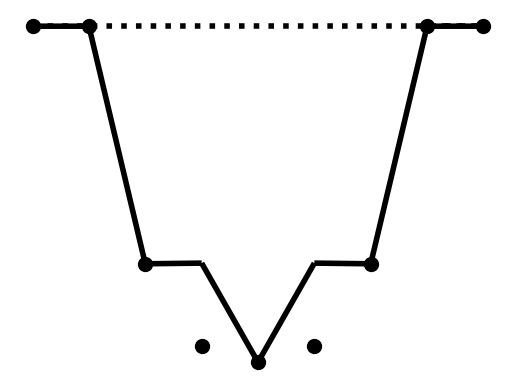
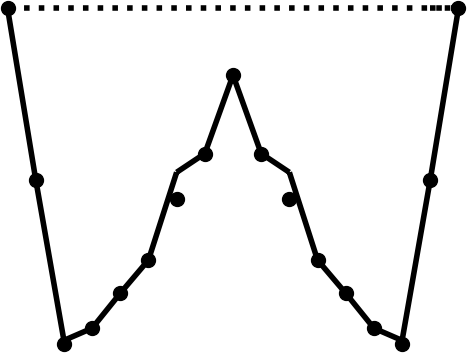
the V-cycle visualization Fig 8.3 is better with one fewer level

diff --git a/paper/tikz/imagesvcycle.tex b/paper/tikz/imagesvcycle.tex
@@ -4,11 +4,9 @@
     \pgfmathsetmacro{\YSTEP}{3.7}
     \pgfmathsetmacro{\YLABEL}{-0.4}
     \pgfmathsetmacro{\NUDGE}{0.5}
-    \node (start3) [] at (0,3*\YSTEP) {\includegraphics[height=\HEIGHT cm]{fixfigs/vcycle/start3.png}};
-    \node (start3label) [below of = start3, yshift=\YLABEL cm] {$w^3 \ge \underline{\gamma}^3$};
-    \node (down3) [] at (1.0*\XSTEP,3*\YSTEP) {\includegraphics[height=\HEIGHT cm]{fixfigs/vcycle/down3.png}};
-    \node (down3label) [below of = down3, yshift=\YLABEL cm] {$y^3 \ge \underline{\phi}^3$};
-    \node (down2) [] at (1.2*\XSTEP,2*\YSTEP) {\includegraphics[height=\HEIGHT cm]{fixfigs/vcycle/down2.png}};
+    \node (start2) [] at (0,2*\YSTEP) {\includegraphics[height=\HEIGHT cm]{fixfigs/vcycle/start2.png}};
+    \node (start2label) [below of = start2, yshift=\YLABEL cm] {$w^2 \ge \underline{\gamma}^2$};
+    \node (down2) [] at (1.0*\XSTEP,2*\YSTEP) {\includegraphics[height=\HEIGHT cm]{fixfigs/vcycle/down2.png}};
     \node (down2label) [below of = down2, yshift=\YLABEL cm] {$y^2 \ge \underline{\phi}^2$};
     \node (down1) [] at (1.4*\XSTEP,1*\YSTEP) {\includegraphics[height=\HEIGHT cm]{fixfigs/vcycle/down1.png}};
     \node (down1label) [below of = down1, yshift=\YLABEL cm] {$y^1 \ge \underline{\phi}^1$};
@@ -16,20 +14,16 @@
     \node (up0label) [below of = up0, yshift=\YLABEL cm] {$z^0 \ge \underline{\chi}^0$};
     \node (up1) [] at (2.4*\XSTEP,1*\YSTEP) {\includegraphics[height=\HEIGHT cm]{fixfigs/vcycle/up1.png}};
     \node (up1label) [below of = up1, yshift=\YLABEL cm] {$z^1 \ge \underline{\chi}^1$};
-    \node (up2) [] at (2.6*\XSTEP,2*\YSTEP) {\includegraphics[height=\HEIGHT cm]{fixfigs/vcycle/up2.png}};
+    \node (up2) [] at (2.8*\XSTEP,2*\YSTEP) {\includegraphics[height=\HEIGHT cm]{fixfigs/vcycle/up2.png}};
     \node (up2label) [below of = up2, yshift=\YLABEL cm] {$z^2 \ge \underline{\chi}^2$};
-    \node (up3) [] at (2.8*\XSTEP,3*\YSTEP) {\includegraphics[height=\HEIGHT cm]{fixfigs/vcycle/up3.png}};
-    \node (up3label) [below of = up3, yshift=\YLABEL cm] {$z^3 \ge \underline{\chi}^3$};
-    \node (next3) [] at (3.8*\XSTEP,3*\YSTEP) {\includegraphics[height=\HEIGHT cm]{fixfigs/vcycle/next3.png}};
-    \node (next3label) [below of = next3, yshift=\YLABEL cm] {$\tilde{w}^3 \ge \underline{\gamma}^3$};
+    \node (next2) [] at (3.8*\XSTEP,2*\YSTEP) {\includegraphics[height=\HEIGHT cm]{fixfigs/vcycle/next2.png}};
+    \node (next2label) [below of = next2, yshift=\YLABEL cm] {$\tilde{w}^2 \ge \underline{\gamma}^2$};
     \graph [edges = {very thick}] {
-        (start3) -> (down3)
-                 -!- [] (down3label) -> (down2)
+        (start2) -> (down2)
                  -!- [] (down2label) -> (down1)
                  -!- [] (down1label) -> (up0)
                  -> (up1label) -!- (up1)
                  -> (up2label) -!- (up2)
-                 -> (up3label) -!- (up3)
-                 -> (next3)
+                 -> (next2)
     };
 \end{tikzpicture}

diff --git a/paper/fascd.tex b/paper/fascd.tex
@@ -873,14 +873,16 @@ Set $\Omega=(-3,3)$, $\psi(x) = -0.2|x|$, $\mathcal{K} = \{v \ge \psi\} \subset 
 \end{figure}
 
 % figures in the following visualization were generated using branch elbueler/simplefigs
-% of git@bitbucket.org:pefarrell/fascd.git, and the following commands:
+% of git@bitbucket.org:pefarrell/fascd.git, and the following commands (including imagemagick):
 %   cd examples/
-%   python3 plap1d.py -figures -fascd_max_it 2 -fascd_cycle_type multiplicative -mcoarse 2
+%   python3 plap1d.py -fascd_cycle_type multiplicative -mcoarse 4 -levs 3 -figures
+%   [save the images into mcd-extended/paper/fixfigs/vcycle/]
+%   for X in start2 down2 down1 up0 up1 up2 next2; do mogrify -trim $X.png $X.png; done
 \begin{figure}[ht]
 \begin{center}
 \input{tikz/imagesvcycle.tex}
 \end{center}
-\caption{Visualization of one FAScd V-cycle iteration for Example \ref{ex:results:plap}, with $p=1.5$, $J=3$, and a coarsest mesh of $m_0=3$ vertices.  Solutions (i.e.~$w^j$, $y^j$, $z^j$) are lines while obstacles ($\underline{\gamma}^j$, $\underline{\phi}^j$, $\underline{\chi}^j$) are strong dots.  The zero function is shown (dotted), but vertical scale varies.}
+\caption{Visualization of one FAScd V-cycle iteration for Example \ref{ex:results:plap}, with $p=1.5$, $J=3$, and a coarsest mesh of $m_0=5$ vertices.  Solutions (i.e.~$w^j$, $y^j$, $z^j$) are lines, obstacles ($\underline{\gamma}^j$, $\underline{\phi}^j$, $\underline{\chi}^j$) are strong dots, and the zero function is dotted.  Vertical scale varies.}
 \label{fig:imagesvcycle}
 \end{figure}
 
